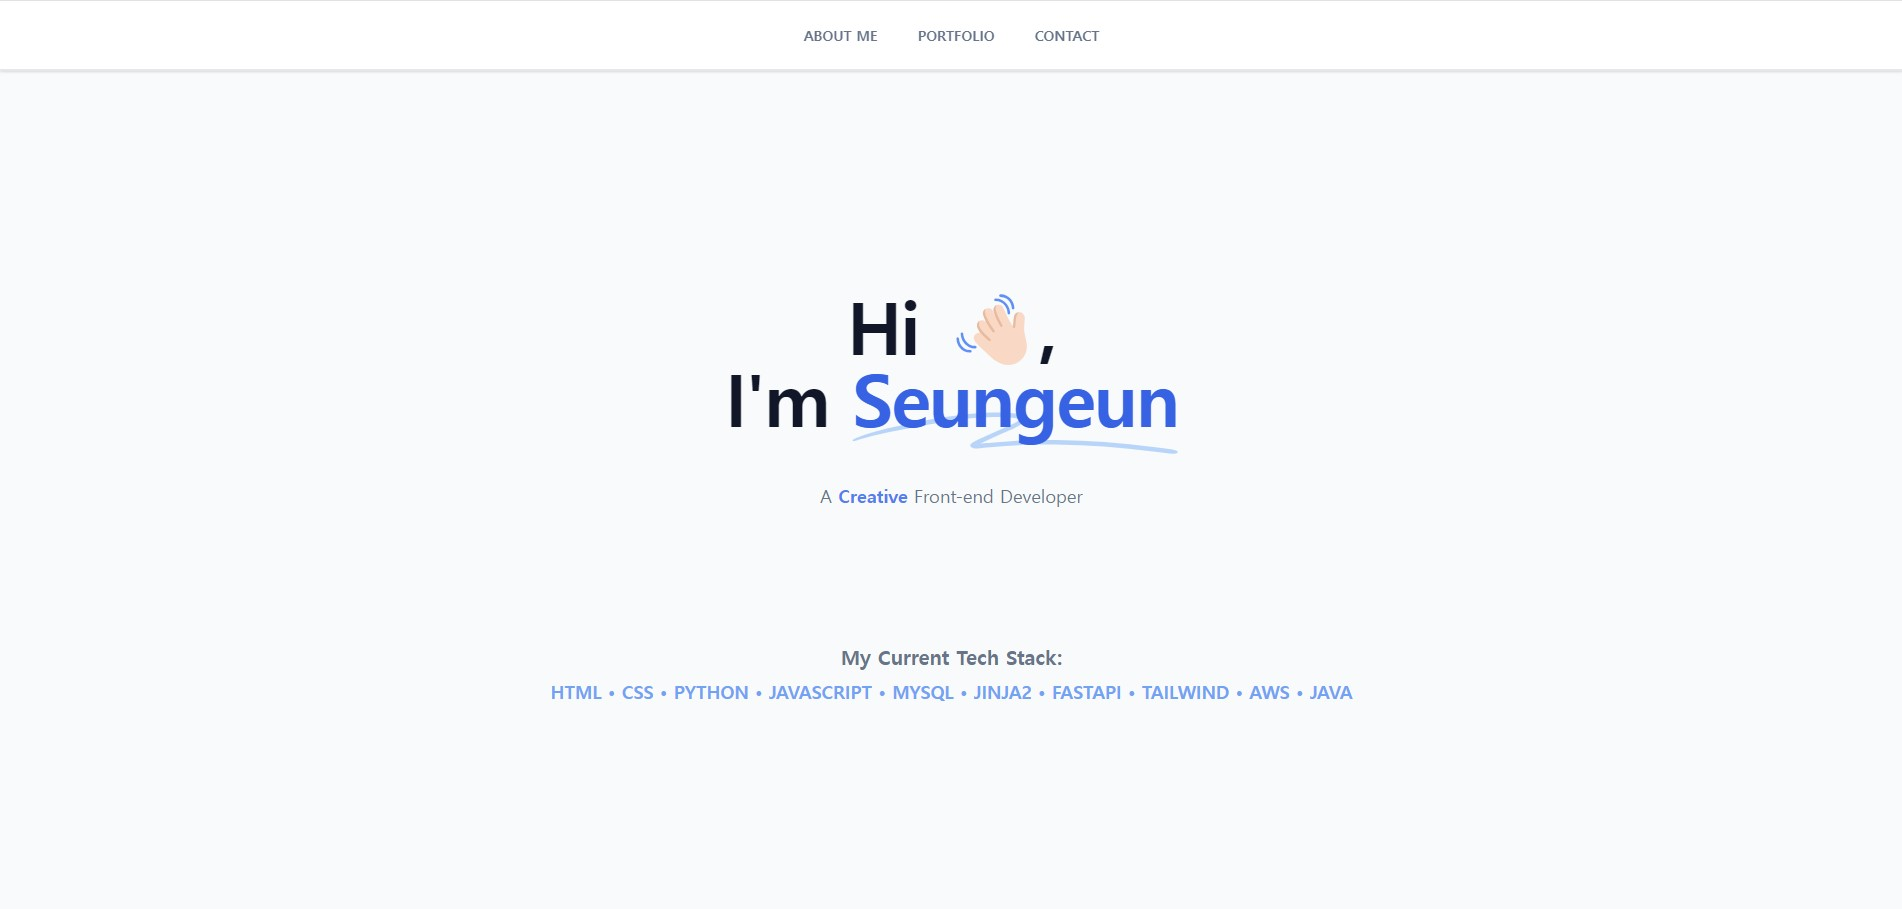
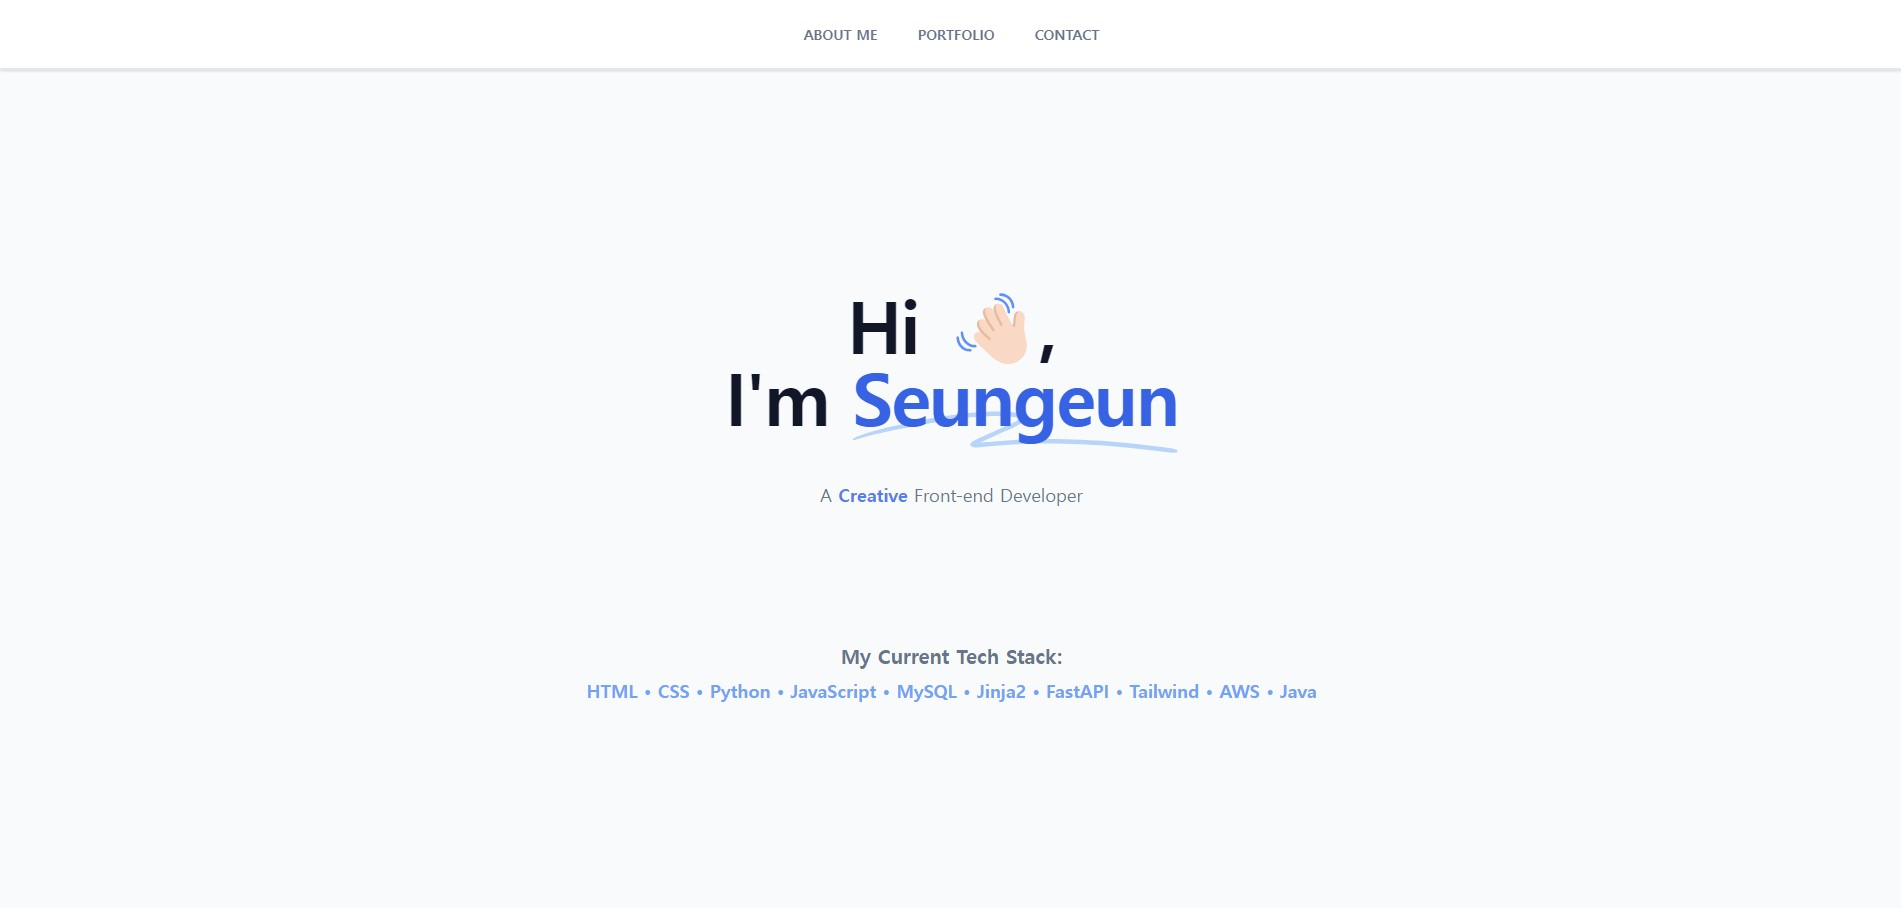
Modified index.html

diff --git a/index.html b/index.html
@@ -92,8 +92,8 @@
                 class="font-bold text-blue-500">Creative</span> Front-end Developer</p>
         <div class="mt-20 lg:mt-32">
             <p class="font-display text-xl leading-loose font-semibold text-slate-500">My Current Tech Stack:</p>
-            <p class="font-display text-lg font-semibold text-blue-400">HTML • CSS • PYTHON • JAVASCRIPT • MYSQL •
-                JINJA2 • FASTAPI • TAILWIND • AWS • JAVA </p>
+            <p class="font-display text-lg font-semibold text-blue-400">HTML • CSS • Python • JavaScript • MySQL •
+                Jinja2 • FastAPI • Tailwind • AWS • Java </p>
         </div>
     </div>
     <section id="aboutme" aria-label="About me" class="relative overflow-hidden pb-28 pt-20 sm:py-40">
@@ -117,7 +117,7 @@
                     <br>
                     I'm interested in front-end development.
                     I'm deeply passionate about developing web applications that directly interact with users and strive
-                    to enhance user experience by harmoniously combining design and functionality.
+                    to enhance user experience by combining design and functionality.
                     I am proficient in web technologies such as <span class="font-bold">HTML</span>, <span
                         class="font-bold">CSS</span>, and <span class="font-bold">JavaScript</span>,
                     primarily using <span class="font-bold">FastAPI</span> and <span class="font-bold">Jinja2</span> to
@@ -177,7 +177,7 @@
                         </div>
                         <div class="sm:flex items-center pt-5 sm:pt-0">
                             <p class="font-display text-medium text-slate-500">
-                                This is a fanmade website to sort your favourite players or teams in football based on
+                                This is a fanmade website to sort your favourite players or clubs in football based on
                                 your filter by league and football clubs.
                                 <br>
                                 <br>
@@ -198,8 +198,62 @@
                     </button>
                 </div>
                 <div class="sm:flex pt-3 pb-16">
-                    <div class="sm:flex flex-row mr-16 w-full sm:max-w-[500px]">
-                        <img class="shadow-2xl rounded-lg" src="/static/img/shoppingmall.jpg" alt="Shopping Mall">
+                    <div id="indicators-carousel" class="relative w-full sm:flex flex-row mr-16 w-full sm:max-w-[500px] bg-white" data-carousel="static">
+                        <!-- Carousel wrapper -->
+                        <div class="relative h-52 sm:h-72 overflow-hidden rounded-lg sm:w-[500px] shadow-2xl">
+                            <!-- Item 1 -->
+                            <div class="hidden duration-700 ease-in-out" data-carousel-item="active">
+                                <img src="/static/img/shoppingmall.jpg"
+                                     class="absolute block w-full -translate-x-1/2 -translate-y-1/2 top-1/2 left-1/2"
+                                     alt="...">
+                            </div>
+                            <!-- Item 2 -->
+                            <div class="hidden duration-700 ease-in-out" data-carousel-item>
+                                <img src="/static/img/shoppingmall2.jpg"
+                                     class="absolute block w-full -translate-x-1/2 -translate-y-1/2 top-1/2 left-1/2"
+                                     alt="...">
+                            </div>
+                            <!-- Item 3 -->
+                            <div class="hidden duration-700 ease-in-out" data-carousel-item>
+                                <img src="/static/img/shoppingmall3.jpg"
+                                     class="absolute block w-full -translate-x-1/2 -translate-y-1/2 top-1/2 left-1/2"
+                                     alt="...">
+                            </div>
+                        </div>
+                        <!-- Slider indicators -->
+                        <div class="absolute z-30 flex -translate-x-1/2 space-x-3 rtl:space-x-reverse bottom-3 left-1/2 bg-gray-400 rounded-lg px-3 py-1.5">
+                            <button type="button" class="w-3 h-3 rounded-full bg-gray-400" aria-current="true" aria-label="Slide 1"
+                                    data-carousel-slide-to="0"></button>
+                            <button type="button" class="w-3 h-3 rounded-full bg-gray-400" aria-current="false" aria-label="Slide 2"
+                                    data-carousel-slide-to="1"></button>
+                            <button type="button" class="w-3 h-3 rounded-full bg-gray-400" aria-current="false" aria-label="Slide 3"
+                                    data-carousel-slide-to="2"></button>
+                        </div>
+                        <!-- Slider controls -->
+                        <button type="button"
+                                class="absolute top-0 start-0 z-30 flex items-center justify-center h-full px-4 cursor-pointer group focus:outline-none"
+                                data-carousel-prev>
+                        <span class="inline-flex items-center justify-center w-10 h-10 rounded-full bg-gray-400 dark:bg-gray-800/30 group-hover:bg-gray-500 dark:group-hover:bg-gray-800/60 group-focus:ring-4 group-focus:ring-white dark:group-focus:ring-gray-800/70 group-focus:outline-none">
+                            <svg class="w-4 h-4 text-white dark:text-gray-800 rtl:rotate-180" aria-hidden="true"
+                                 xmlns="http://www.w3.org/2000/svg" fill="none" viewBox="0 0 6 10">
+                                <path stroke="currentColor" stroke-linecap="round" stroke-linejoin="round" stroke-width="2"
+                                      d="M5 1 1 5l4 4"/>
+                            </svg>
+                            <span class="sr-only">Previous</span>
+                        </span>
+                        </button>
+                        <button type="button"
+                                class="absolute top-0 end-0 z-30 flex items-center justify-center h-full px-4 cursor-pointer group focus:outline-none"
+                                data-carousel-next>
+                        <span class="inline-flex items-center justify-center w-10 h-10 rounded-full bg-gray-400 dark:bg-gray-800/30 group-hover:bg-gray-500 dark:group-hover:bg-gray-800/60 group-focus:ring-4 group-focus:ring-white dark:group-focus:ring-gray-800/70 group-focus:outline-none">
+                            <svg class="w-4 h-4 text-white dark:text-gray-800 rtl:rotate-180" aria-hidden="true"
+                                 xmlns="http://www.w3.org/2000/svg" fill="none" viewBox="0 0 6 10">
+                                <path stroke="currentColor" stroke-linecap="round" stroke-linejoin="round" stroke-width="2"
+                                      d="m1 9 4-4-4-4"/>
+                            </svg>
+                            <span class="sr-only">Next</span>
+                        </span>
+                        </button>
                     </div>
                     <div class="sm:flex flex-row items-center pt-5 sm:pt-0">
                         <p class="font-display text-medium text-slate-500">
@@ -224,7 +278,7 @@
     <section id="contact" aria-label="Contact" class="py-15">
         <div class="py-16">
             <h4 class="text-center text-blue-500 font-bold text-3xl sm:text-4xl md:text-5xl">CONTACT</h4>
-            <p class="mt-10 text-center text-gray-700 font-semibold text-xl">tmddms1119@gmail.com</p>
+            <p class="mt-10 text-center text-gray-700 font-semibold text-xl">itsseungeun@gmail.com</p>
             <nav class="mt-16 text-sm" aria-label="quick links">
                 <div class="flex justify-center gap-x-10">
                     <a class="group" aria-label="GitHub" href="https://github.com/1eeseungeun" target="_blank">
@@ -247,7 +301,6 @@
             </nav>
         </div>
     </section>
-    <script src="/_next/static/chunks/webpack-2ab14bf4cd2afc74.js" crossorigin="" async=""></script>
     <script>
         (self.__next_f = self.__next_f || []).push([0]);
         self.__next_f.push([2, null])
